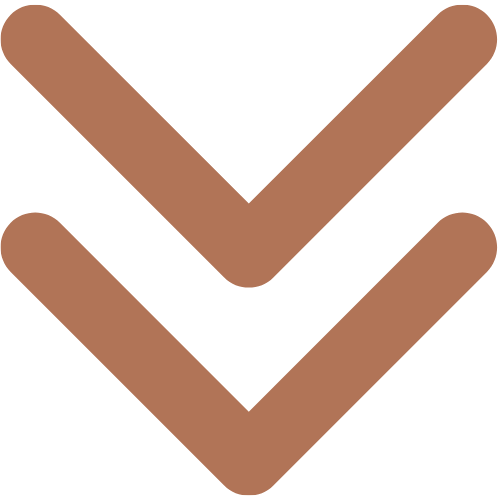
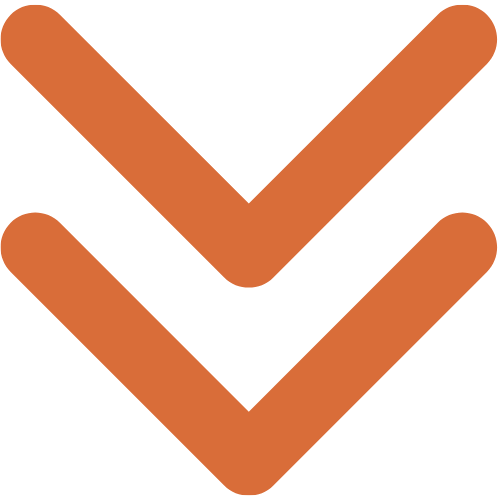
color change to orange

diff --git a/styles/globals.scss b/styles/globals.scss
@@ -5,7 +5,7 @@ $font-poppins: "Poppins", sans-serif;
 $dark-blue: #d8d2c2;
 $medium-blue: #d8d2c2;
 
-$orange: #b17457;
+$orange: #d96d39;
 $light-blue: #d8d2c2;
 $white: #d8d2c2;
 
@@ -167,7 +167,7 @@ button {
   text-align: center !important;
 
   &:hover {
-    background-color: #b17457 !important; /* Darker hover effect */
+    background-color: #d96d39 !important; /* Darker hover effect */
     transform: scale(1.05); /* Slightly increase button size */
   }
 }

diff --git a/public/components/info-about.module.scss b/public/components/info-about.module.scss
@@ -9,7 +9,7 @@
     font-weight: 700 !important;
     font-size: 5rem !important;
     align-items: flex-start;
-    color: #b17457;
+    color: #d96d39;
   }
 
   .infoGrid {
@@ -219,6 +219,6 @@
 
   &:hover {
     transform: translateY(-2px);
-    background: #a27b5c;
+    background: #d96d39;
   }
 }

diff --git a/public/components/hero-section.module.scss b/public/components/hero-section.module.scss
@@ -24,8 +24,8 @@
       overflow-wrap: break-word;
       span {
         -webkit-text-fill-color: transparent;
-        -webkit-text-stroke: 1px #b17457;
-        text-shadow: 0 0 5px #b17457;
+        -webkit-text-stroke: 1px #d96d39;
+        text-shadow: 0 0 5px #d96d39;
       }
     }
 
